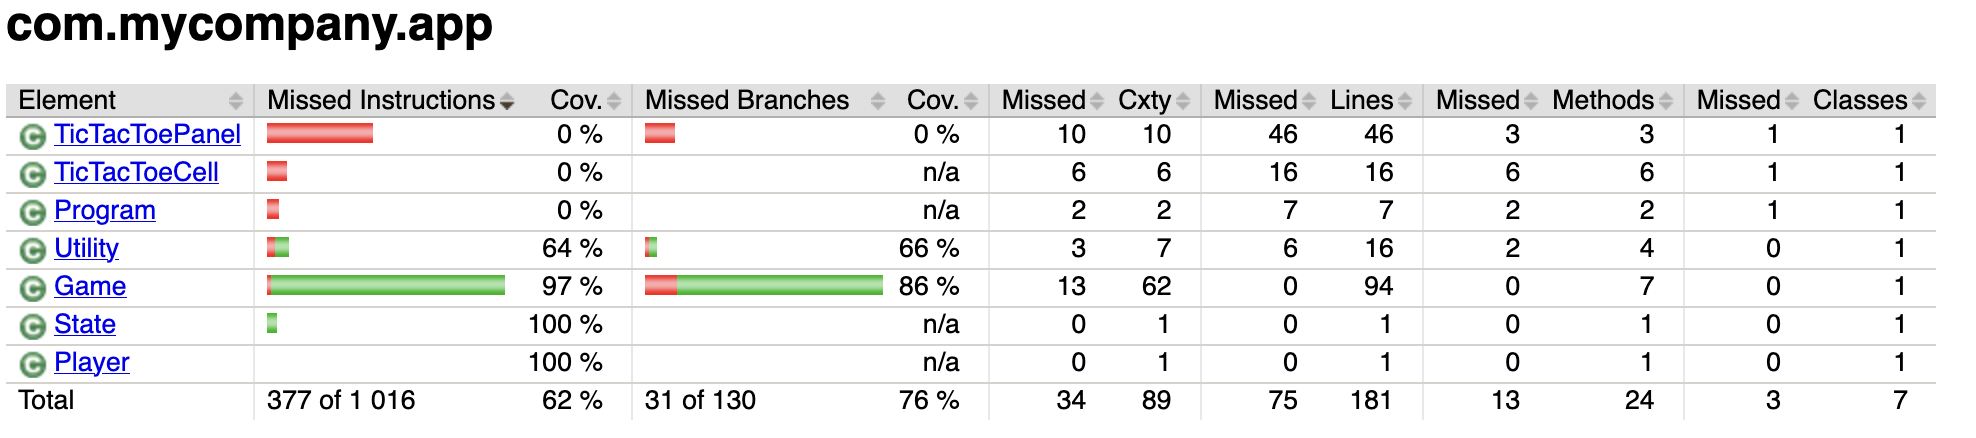
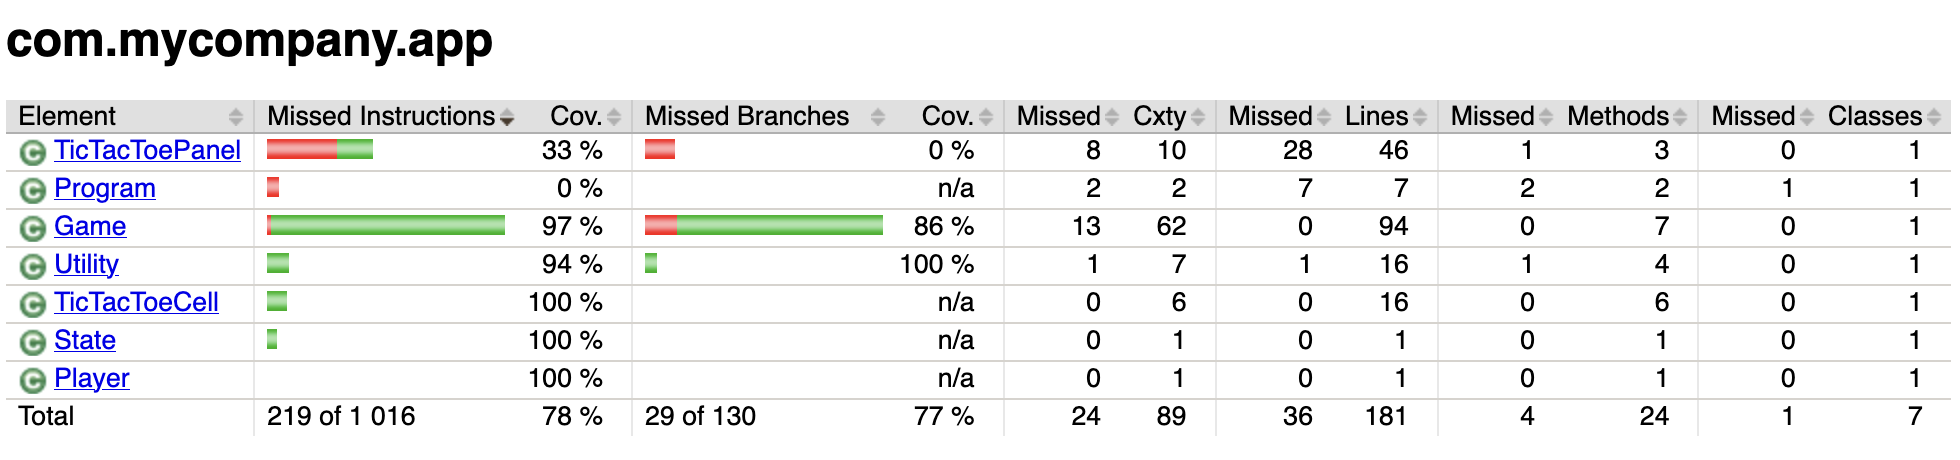
second

Changed region(s): [[0.0, 0.1781, 0.9959, 0.9498], [0.0, 0.0297, 0.249, 0.1484]]

diff --git a/my-app/src/test/java/com/mycompany/app/TicTacToePanelTest.java b/my-app/src/test/java/com/mycompany/app/TicTacToePanelTest.java
@@ -1,0 +1,26 @@
+package com.mycompany.app;
+
+import org.junit.jupiter.api.Test;
+
+import java.awt.*;
+
+import static org.junit.jupiter.api.Assertions.*;
+
+public class TicTacToePanelTest {
+
+    @Test
+    public void testPanelInitialization() {
+        TicTacToePanel panel = new TicTacToePanel(new GridLayout(3, 3));
+        assertNotNull(panel);
+    }
+
+    @Test
+    public void testCreateCell() {
+        TicTacToePanel panel = new TicTacToePanel(new GridLayout(3, 3));
+        Component[] components = panel.getComponents();
+        assertEquals(9, components.length);
+        for (Component component : components) {
+            assertTrue(component instanceof TicTacToeCell);
+        }
+    }
+}

diff --git a/my-app/src/test/java/com/mycompany/app/TicTacToeCellTest.java b/my-app/src/test/java/com/mycompany/app/TicTacToeCellTest.java
@@ -1,0 +1,25 @@
+package com.mycompany.app;
+
+import org.junit.jupiter.api.Test;
+
+import static org.junit.jupiter.api.Assertions.*;
+
+public class TicTacToeCellTest {
+
+    @Test
+    public void testCellInitialization() {
+        TicTacToeCell cell = new TicTacToeCell(1, 0, 0);
+        assertEquals(1, cell.getNum());
+        assertEquals(0, cell.getRow());
+        assertEquals(0, cell.getCol());
+        assertEquals(' ', cell.getMarker());
+    }
+
+    @Test
+    public void testSetMarker() {
+        TicTacToeCell cell = new TicTacToeCell(1, 0, 0);
+        cell.setMarker("X");
+        assertEquals('X', cell.getMarker());
+        assertFalse(cell.isEnabled());
+    }
+}

diff --git a/my-app/src/test/java/com/mycompany/app/UtilityTest.java b/my-app/src/test/java/com/mycompany/app/UtilityTest.java
@@ -36,4 +36,16 @@ public class UtilityTest {
         ArrayList<Integer> moves = new ArrayList<>();
         Utility.print(moves);
     }
+
+    @Test
+    public void testPrintIntArray() {
+        int[] board = {1, 2, 3, 4, 5, 6, 7, 8, 9};
+        Utility.print(board);
+    }
+
+    @Test
+    public void testPrintEmptyIntArray() {
+        int[] board = new int[9];
+        Utility.print(board);
+    }
 }
